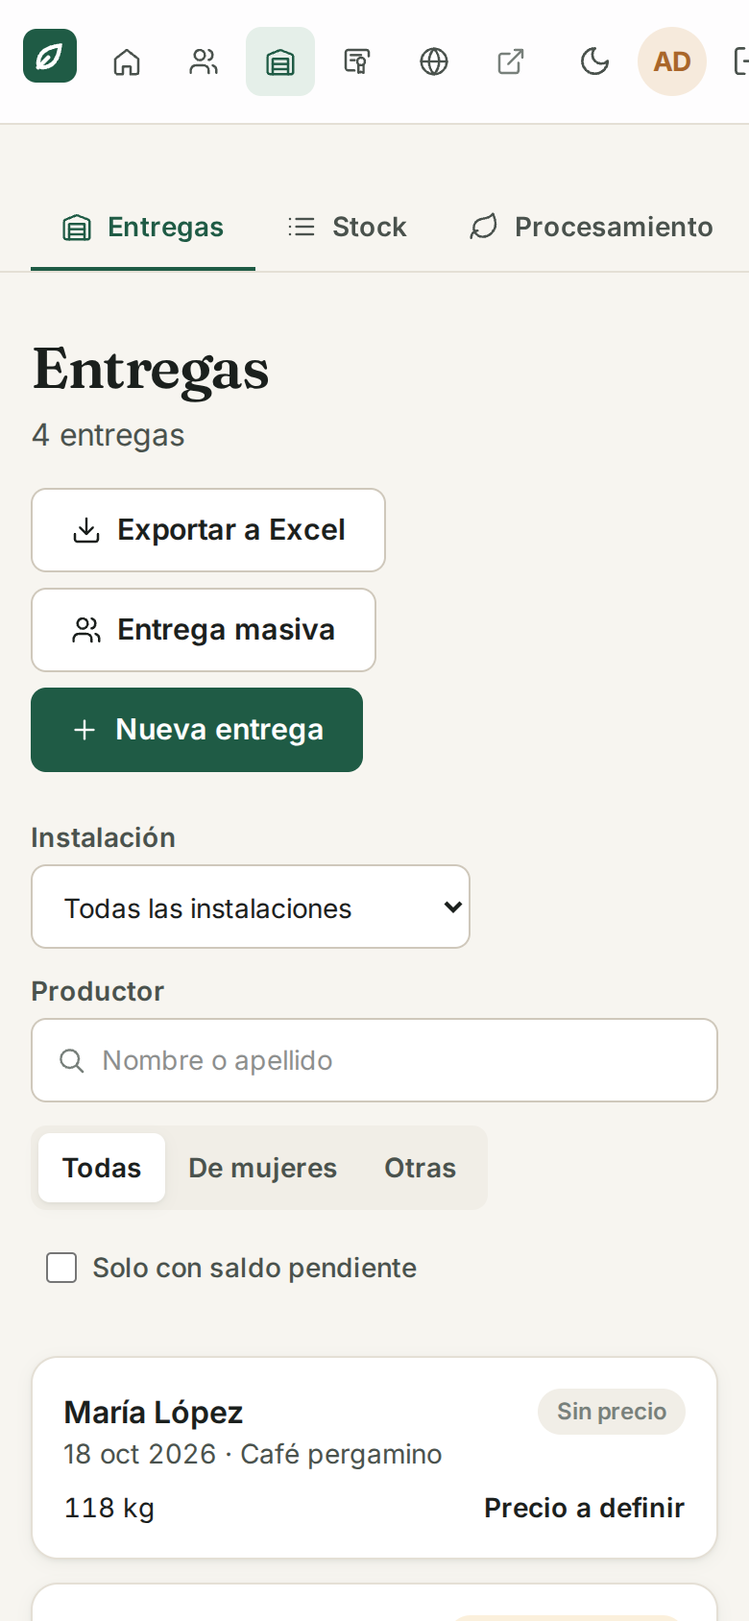
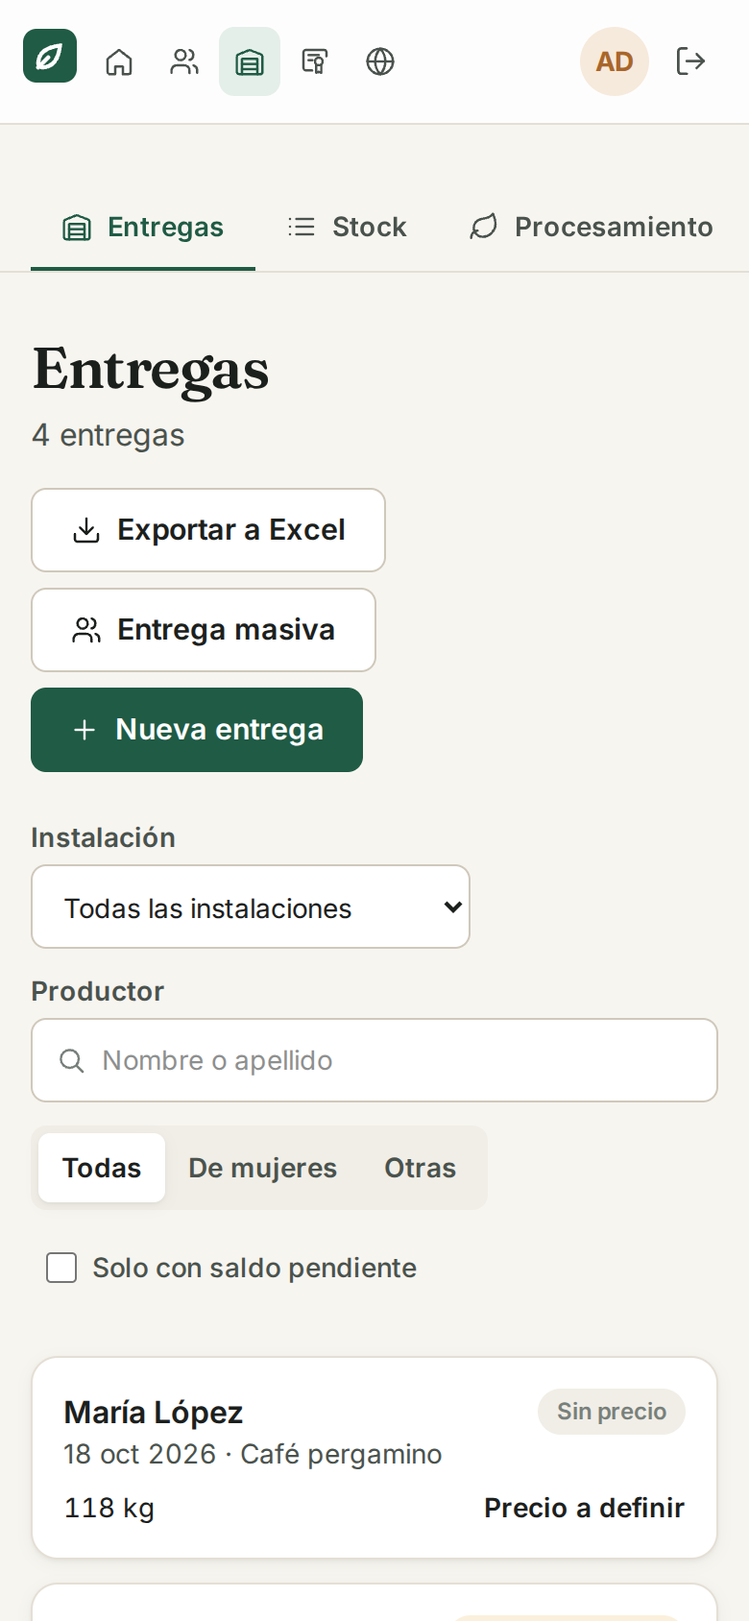
Barra sin recortes en ningún ancho, prueba sin carrera y README al día
- v2.0.3 dejaba el menú recortado en escritorio: la navegación ya no se encoge desde sm y solo se
  desliza en el celular. El selector de empresa queda como ícono por debajo de lg, el idioma desde md
  (también está en el perfil) y los textos del menú desde lg.
- Nueva prueba: la barra en diez anchos, con y sin administración, sin desbordes ni menú recortado.
- productos-partes: un solo manejador para la confirmación y el aviso (fallaba a veces en la CI).
- Actions en sus versiones actuales (sin el aviso de Node 20).
- README es/en: la v2 reemplaza todas las pantallas, convivencia opcional, URL_ANTERIOR, CI por
  etiquetas, PR #129, #132 y frontend #33 mergeados, cifras de pruebas y capturas nuevas.

diff --git a/src/paginas/portal/Marco.tsx b/src/paginas/portal/Marco.tsx
@@ -39,7 +39,7 @@ export function Marco() {
             <Logo compacto />
           </Link>
           {/* En un celular angosto la navegación se desliza en vez de ensanchar la página. */}
-          <nav className="flex min-w-0 items-center gap-0.5 overflow-x-auto [scrollbar-width:none] sm:gap-1" aria-label="Principal">
+          <nav className="flex items-center gap-0.5 max-sm:min-w-0 max-sm:overflow-x-auto max-sm:[scrollbar-width:none] sm:shrink-0 sm:gap-1" aria-label="Principal">
             {NAV.filter((n) => !n.admin || admin).map((n) => (
               <Link
                 key={n.to}
@@ -52,7 +52,7 @@ export function Marco() {
               >
                 <Icono nombre={n.icono} className="size-4" />
                 {/* Con la entrada de la administración no entran los textos de las seis: solo si sobra lugar. */}
-                <span className={'hidden whitespace-nowrap ' + (admin ? '2xl:inline' : 'md:inline')}>{t(n.clave)}</span>
+                <span className={'hidden whitespace-nowrap ' + (admin ? '2xl:inline' : 'lg:inline')}>{t(n.clave)}</span>
               </Link>
             ))}
             {hayAnterior && (
@@ -65,10 +65,10 @@ export function Marco() {
               </>
             )}
           </nav>
-          <div className="ml-auto flex shrink-0 items-center gap-1">
+          <div className="ml-auto flex min-w-0 items-center gap-1">
             <SelectorEmpresa />
             {/* Envuelto: el propio selector es inline-flex y le ganaría a un "hidden". */}
-            <div className="hidden sm:block">
+            <div className="hidden md:block">
               <SelectorIdioma />
             </div>
             {/* En el celular el tema se cambia desde el perfil. */}

diff --git a/src/componentes/SelectorEmpresa.tsx b/src/componentes/SelectorEmpresa.tsx
@@ -13,9 +13,9 @@ export function SelectorEmpresa() {
   if (empresas.length < 2) {
     return <span className="mr-2 hidden max-w-44 truncate text-sm font-semibold text-tinta-2 lg:inline" title={actual.nombre}>{actual.nombre}</span>;
   }
-  // En el celular queda solo el ícono: el selector, invisible, lo cubre y abre la lista del sistema.
+  // En pantallas angostas queda solo el ícono: el selector, invisible, lo cubre y abre la lista del sistema.
   return (
-    <label className="relative inline-flex max-w-56 items-center gap-1.5 rounded-lg px-2 text-sm text-tinta-2 hover:bg-superficie-2 max-sm:size-9 max-sm:justify-center max-sm:px-0 sm:mr-1">
+    <label className="relative inline-flex max-w-56 items-center gap-1.5 rounded-lg px-2 text-sm text-tinta-2 hover:bg-superficie-2 max-lg:size-9 max-lg:justify-center max-lg:px-0 lg:mr-1">
       <Icono nombre="edificio" className="size-4 shrink-0" />
       <span className="sr-only">{t('portal.empresa')}</span>
       <select
@@ -25,7 +25,7 @@ export function SelectorEmpresa() {
           // Lo cargado de la empresa anterior no sirve para la nueva.
           void qc.invalidateQueries({ queryKey: ['productores'] });
         }}
-        className="h-9 min-w-0 cursor-pointer truncate bg-transparent font-semibold text-tinta outline-none max-sm:absolute max-sm:inset-0 max-sm:w-full max-sm:opacity-0"
+        className="h-9 min-w-0 cursor-pointer truncate bg-transparent font-semibold text-tinta outline-none max-lg:absolute max-lg:inset-0 max-lg:w-full max-lg:opacity-0"
       >
         {empresas.map((e) => <option key={e.id} value={e.id}>{e.nombre}</option>)}
       </select>

diff --git a/e2e/ancho.spec.ts b/e2e/ancho.spec.ts
@@ -52,3 +52,25 @@ test('las pantallas de cuenta tampoco', async ({ page }) => {
     expect(medidas.documento, `ancho del documento en /${ruta}`).toBeLessThanOrEqual(medidas.ventana);
   }
 });
+
+// La barra de arriba cambia según el ancho (textos, idioma, selector de empresa): ningún ancho intermedio
+// puede ensancharla. Pasó entre 640 y 900 px, donde no mira ni el escritorio ni el celular.
+for (const rol of ['', 'SYSTEM_ADMIN']) {
+  test(`la barra entra en todos los anchos${rol ? ' (administración)' : ''}`, async ({ page }) => {
+    if (rol) await page.addInitScript((r) => sessionStorage.setItem('simulado.rol', r), rol);
+    await page.goto('ingreso');
+    await page.getByLabel('Correo electrónico').fill('demo@inatrace.local');
+    await page.getByLabel('Contraseña').fill('demo1234');
+    await page.getByRole('button', { name: 'Ingresar' }).click();
+    await expect(page.getByRole('heading', { name: /^Hola/ })).toBeVisible();
+    for (const ancho of [1440, 1280, 1024, 900, 768, 700, 640, 600, 390, 360]) {
+      await page.setViewportSize({ width: ancho, height: 800 });
+      await expect.poll(() => page.evaluate(() => document.documentElement.scrollWidth), { message: `ancho del documento a ${ancho} px` }).toBeLessThanOrEqual(ancho);
+      // Solo en el celular el menú puede deslizarse; desde 640 px tiene que verse entero.
+      if (ancho >= 640) {
+        const menu = await page.getByRole('navigation', { name: 'Principal' }).evaluate((n) => n.scrollWidth - n.clientWidth);
+        expect(menu, `menú recortado a ${ancho} px`).toBeLessThanOrEqual(0);
+      }
+    }
+  });
+}

diff --git a/e2e/productos-partes.spec.ts b/e2e/productos-partes.spec.ts
@@ -173,11 +173,12 @@ test.describe('partes del producto (modo simulado)', () => {
 
   test('borrar un producto con productos finales explica por qué no se puede', async ({ page }) => {
     await ingresar(page, 'productos/1');
-    let mensaje = '';
-    page.once('dialog', (d) => void d.accept());
+    // Un solo manejador para la confirmación y el aviso: registrar el segundo después del clic llegaba
+    // a veces tarde y el aviso se cerraba solo.
+    const mensajes: string[] = [];
+    page.on('dialog', (d) => { mensajes.push(d.message()); void d.accept(); });
     await page.getByRole('button', { name: 'Borrar producto' }).click();
-    page.once('dialog', (d) => { mensaje = d.message(); void d.accept(); });
-    await expect.poll(() => mensaje).toContain('tiene productos finales');
+    await expect.poll(() => mensajes.join('\n')).toContain('tiene productos finales');
     await expect(page.getByRole('heading', { level: 1, name: 'Café Flor de la Sierra' })).toBeVisible();
   });
 });

diff --git a/README.md b/README.md
@@ -25,7 +25,7 @@
 ![Docker](https://img.shields.io/badge/Docker-nginx%20sin%20privilegios-2496ED?logo=docker&logoColor=white)
 ![pnpm](https://img.shields.io/badge/pnpm-9-F69220?logo=pnpm&logoColor=white)
 
-<img src="docs/capturas/inicio.png" alt="Inicio de INATrace v2: saludo y estado de cada módulo" width="860">
+<img src="docs/capturas/inicio.png" alt="Inicio de INATrace v2: saludo y módulos" width="860">
 
 </div>
 
@@ -56,15 +56,17 @@
 
 ## Qué es
 
-INATrace v2 reemplaza, módulo por módulo, la interfaz web de INATrace (Angular 10) por una nueva en
-React. Habla con el **mismo backend Java/Spring sin modificarlo** y **convive** con la interfaz
-actual: un proxy reparte las rutas en un mismo dominio, así que la sesión es una sola y se puede
-pasar de una versión a otra sin volver a ingresar. Lo que todavía no está en la v2 se abre en la
-versión actual.
+INATrace v2 es una interfaz web nueva para INATrace, en React, que reemplaza a la actual (Angular 10)
+**en todas sus pantallas**. Habla con el **mismo backend Java/Spring sin modificarlo**, así que se
+instala delante de una instancia existente sin migrar datos.
+
+El cambio puede ser gradual: un proxy reparte las rutas en un mismo dominio, la sesión es una sola y
+las dos interfaces **conviven** el tiempo que haga falta. Cuando se decide, el proxy retira la
+interfaz actual y cada enlace viejo (incluidos los QR ya impresos) lleva a su equivalente en la v2.
 
 Es una iniciativa propia de Rolando Quirós, separada de los contratos con la GIZ. El plan completo
 está en [docs/PLAN.md](docs/PLAN.md) y el estado detallado, fase por fase, en
-[docs/AVANCE.md](docs/AVANCE.md).
+[docs/AVANCE.md](docs/AVANCE.md). Versión actual: **2.0.4**.
 
 ## Vistas previas
 
@@ -115,7 +117,7 @@ está en [docs/PLAN.md](docs/PLAN.md) y el estado detallado, fase por fase, en
 | **Mapas** | Mapbox (requiere token) | MapLibre, con capas del catálogo, dibujo de parcelas y superficie calculada, sin token |
 | **Errores** | Mensajes genéricos en varios casos | Se explica la causa en el idioma de la interfaz (por ejemplo, por qué algo no se puede borrar) |
 | **Vitrina pública (QR)** | Parte de la aplicación completa | Se carga sola, sin formularios ni mapas de edición, con las mismas URL y el mismo registro de visitas |
-| **Permisos** | Algunas reglas solo se aplican en la pantalla (H29) | Respeta cada rol en la interfaz, y la corrección del backend se propuso al original ([#129](https://github.com/agstack/inatrace-backend/pull/129)) |
+| **Permisos** | Algunas reglas solo se aplican en la pantalla (H29) | Respeta cada rol en la interfaz, y la corrección del backend ya está en el original ([#129](https://github.com/agstack/inatrace-backend/pull/129)) |
 
 ## Estado por módulo
 
@@ -232,13 +234,14 @@ flowchart LR
   U["Navegador<br/>(escritorio o celular)"] --> P["Proxy nginx<br/>(un solo dominio)"]
   P -- "/v2/" --> V2["INATrace v2<br/>React + Vite<br/>(nginx sin privilegios)"]
   P -- "/api/" --> B["Backend INATrace<br/>Java · Spring Boot · MySQL<br/>(sin cambios)"]
-  P -- "resto" --> A["Interfaz actual<br/>Angular"]
+  P -. "resto, mientras conviven" .-> A["Interfaz actual<br/>Angular (opcional)"]
   V2 -. "cliente generado<br/>desde OpenAPI" .-> B
   A --> B
 ```
 
 - **Convivencia:** el proxy (`deploy/convivencia/`) manda `/v2/` a esta interfaz, `/api/` al
-  backend y el resto a la interfaz actual. La cookie de sesión es la misma para las dos.
+  backend y el resto a la interfaz actual. La cookie de sesión es la misma para las dos. Mientras
+  conviven, `URL_ANTERIOR` muestra enlaces a la interfaz actual; sin ella, la v2 no los muestra.
 - **QR ya impresos:** con `QR_A_V2=si` el proxy redirige `/{idioma}/q-cd/…` a la vitrina de la v2;
   con `no` siguen en la interfaz actual. Activar o volver atrás es cambiar la variable y reiniciar el proxy.
 - **Retiro de Angular:** con `ANGULAR=no` el proxy deja de enviar tráfico a la interfaz actual y cada ruta
@@ -288,8 +291,8 @@ inatrace-v2/
 ├── deploy/
 │   ├── nginx/          # configuración del contenedor (CSP, config en tiempo de ejecución)
 │   └── convivencia/    # proxy + compose para correr junto a la interfaz actual
-├── scripts/            # actualizar el cliente, importar traducciones, sembrar demos, capturas
-├── docs/               # PLAN.md, AVANCE.md, créditos y capturas
+├── scripts/            # actualizar el cliente, importar traducciones, sembrar demos, capturas, comparación
+├── docs/               # PLAN.md, AVANCE.md, antes y después, créditos y capturas
 └── public/config.js    # configuración leída en tiempo de ejecución (no en el build)
 ```
 
@@ -349,12 +352,12 @@ instalación):
 
 ## Pruebas
 
-Tres niveles, del más rápido al más cercano a producción (cifras al 06.11.2026):
+Tres niveles, del más rápido al más cercano a producción (cifras al 07.11.2026):
 
 | Nivel | Herramienta | Cantidad | Qué cubre |
 |---|---|---|---|
 | Unitarias | Vitest | 163 | Lógica pura: armado de fichas sobre el original, validaciones, permisos por rol, agrupaciones |
-| De punta a punta, simuladas | Playwright + MSW | 192 | Cada flujo en **escritorio y celular**, más una prueba que recorre todas las pantallas buscando desbordes |
+| De punta a punta, simuladas | Playwright + MSW | 196 | Cada flujo en **escritorio y celular**, más pruebas que recorren todas las pantallas y la barra en diez anchos buscando desbordes |
 | Contra un backend real | Playwright | 42 | Los mismos flujos contra una copia aislada de INATrace, verificando lo guardado por la API |
 
 ```bash
@@ -365,17 +368,18 @@ INATRACE_URL=http://localhost:5181 INATRACE_USUARIO=… INATRACE_CLAVE=… \
   pnpm exec playwright test -c playwright.real.config.ts
 ```
 
-La CI (GitHub Actions) corre tipos, pruebas unitarias y de punta a punta en cada push a `main` y a
-las ramas `fase-*`, y en cada pull request. Desde `main` publica además la imagen.
+La CI (GitHub Actions) corre tipos, pruebas unitarias y de punta a punta en cada push a `main`, en
+cada etiqueta de versión y en cada pull request. Desde `main` y las etiquetas publica además la imagen.
 
 ## Despliegue
 
 - **Imagen:** `ghcr.io/reiterstahl/inatrace-v2`, publicada por la CI si pasan todas las pruebas: una
-  etiqueta `vX.Y.Z` publica la versión `X.Y.Z` (la primera es `2.0.0-rc.1`), `main` publica `latest`, y
-  las dos, el SHA del commit. Es nginx sin privilegios en el puerto **8080**,
-  con cabeceras de seguridad y CSP estricta.
-- **Convivencia:** `deploy/convivencia/` trae el proxy y un `docker-compose.yml` para poner la v2
-  delante de una instalación existente sin tocarla.
+  etiqueta `vX.Y.Z` publica la versión `X.Y.Z` (y `latest`, si es estable), `main` publica `latest`, y
+  las dos, el SHA del commit. Es nginx sin privilegios en el puerto **8080**, con cabeceras de
+  seguridad y CSP estricta.
+- **Convivencia y retiro:** `deploy/convivencia/` trae el proxy y un `docker-compose.yml` para poner la
+  v2 delante de una instalación existente sin tocarla. `QR_A_V2` y `ANGULAR` deciden, cada una con un
+  reinicio del proxy, si los QR impresos abren la v2 y si la interfaz actual sigue en uso.
 - **Datos de demostración** (solo para instancias de prueba):
   - `scripts/sembrar-demo.mjs`: una acción «generar QR», un lote con QR y una etiqueta publicada.
   - `scripts/sembrar-medios.mjs`: fotos con licencia libre y un video; los créditos están en
@@ -404,10 +408,10 @@ cada uno con prueba de regresión:
 | [#116](https://github.com/agstack/inatrace-backend/pull/116) | La copia del producto a la etiqueta perdía políticas laborales y lugares de origen | ✅ mergeado |
 | [#117](https://github.com/agstack/inatrace-backend/pull/117) | Un producto con base de conocimiento no se podía borrar | ✅ mergeado |
 | [#118](https://github.com/agstack/inatrace-backend/pull/118) | La «gerencia» de la empresa nunca se guardaba | ✅ mergeado |
-| [#119](https://github.com/agstack/inatrace-backend/pull/119) + [frontend #33](https://github.com/agstack/inatrace-frontend/pull/33) | La lista pública de opiniones exponía datos de los consumidores | ✅ mergeado / aprobado |
+| [#119](https://github.com/agstack/inatrace-backend/pull/119) + [frontend #33](https://github.com/agstack/inatrace-frontend/pull/33) | La lista pública de opiniones exponía datos de los consumidores | ✅ mergeados |
 | [#122](https://github.com/agstack/inatrace-backend/pull/122), [#123](https://github.com/agstack/inatrace-backend/pull/123) | Errores 500 al borrar acciones de procesamiento o clientes en uso | ✅ mergeados |
-| [#129](https://github.com/agstack/inatrace-backend/pull/129) | La administración regional podía dar el rol de administración del sistema | 🕓 en revisión |
-| [#132](https://github.com/agstack/inatrace-backend/pull/132) | Error 500 al borrar una cadena de valor en uso | 🕓 en revisión |
+| [#129](https://github.com/agstack/inatrace-backend/pull/129) | La administración regional podía dar el rol de administración del sistema | ✅ mergeado |
+| [#132](https://github.com/agstack/inatrace-backend/pull/132) | Error 500 al borrar una cadena de valor en uso | ✅ mergeado |
 | [#137](https://github.com/agstack/inatrace-backend/pull/137) | Error 500 al borrar elementos de catálogo en uso | 🕓 en revisión |
 
 ## Decisiones técnicas
@@ -428,6 +432,9 @@ cada uno con prueba de regresión:
 - [docs/PLAN.md](docs/PLAN.md): qué es y qué no es, principios, arquitectura, inventario de la
   interfaz actual, fases y riesgos.
 - [docs/AVANCE.md](docs/AVANCE.md): qué se hizo en cada fase, con sus pruebas, hallazgos y pendientes.
+- [docs/ANTES-Y-DESPUES.md](docs/ANTES-Y-DESPUES.md): la interfaz actual y la v2, pantalla por pantalla y
+  con los mismos datos.
+- [deploy/convivencia/](deploy/convivencia/): el proxy, sus variables y las reglas de redirección.
 - [e2e-real/README.md](e2e-real/README.md): cómo correr las pruebas contra una instalación real.
 
 ## Licencia y créditos

diff --git a/README.en.md b/README.en.md
@@ -25,7 +25,7 @@
 ![Docker](https://img.shields.io/badge/Docker-unprivileged%20nginx-2496ED?logo=docker&logoColor=white)
 ![pnpm](https://img.shields.io/badge/pnpm-9-F69220?logo=pnpm&logoColor=white)
 
-<img src="docs/capturas/en/inicio.png" alt="INATrace v2 home: greeting and status of each module" width="860">
+<img src="docs/capturas/en/inicio.png" alt="INATrace v2 home: greeting and modules" width="860">
 
 </div>
 
@@ -56,15 +56,18 @@
 
 ## What it is
 
-INATrace v2 replaces the INATrace web interface (Angular 10) with a new one in React, one module at a
-time. It talks to the **same Java/Spring backend without modifying it** and **runs alongside** the
-current interface. A proxy splits the routes on a single domain, so both versions share one session
-and users can move between them without signing in again. Anything not yet in v2 opens in the
-current version.
+INATrace v2 is a new web interface for INATrace, built in React, that replaces the current one
+(Angular 10) **on every screen**. It talks to the **same Java/Spring backend without modifying it**, so
+it goes in front of an existing instance with no data migration.
+
+The switch can be gradual: a proxy splits the routes on a single domain, both interfaces share one
+session and they can **run side by side** for as long as needed. When the time comes, the proxy
+retires the current interface and every old link (including QR codes already printed) leads to its
+v2 equivalent.
 
 It is an independent initiative by Rolando Quirós, separate from the GIZ contracts. The full plan is
 in [docs/PLAN.md](docs/PLAN.md) and the detailed status of each phase is in
-[docs/AVANCE.md](docs/AVANCE.md) (both in Spanish).
+[docs/AVANCE.md](docs/AVANCE.md) (both in Spanish). Current version: **2.0.4**.
 
 ## Previews
 
@@ -116,7 +119,7 @@ in [docs/PLAN.md](docs/PLAN.md) and the detailed status of each phase is in
 | **Maps** | Mapbox (needs a token) | MapLibre, with catalog layers, plot drawing and computed area, no token |
 | **Errors** | Generic messages in several cases | The cause is explained in the interface language (for example, why something cannot be deleted) |
 | **Public product page (QR)** | Part of the full application | Loads on its own, without forms or editing maps, with the same URLs and the same visit tracking |
-| **Permissions** | Some rules are only enforced on screen (H29) | Each role is respected in the interface, and the backend fix was proposed upstream ([#129](https://github.com/agstack/inatrace-backend/pull/129)) |
+| **Permissions** | Some rules are only enforced on screen (H29) | Each role is respected in the interface, and the backend fix is now upstream ([#129](https://github.com/agstack/inatrace-backend/pull/129)) |
 
 ## Status by module
 
@@ -231,13 +234,14 @@ flowchart LR
   U["Browser<br/>(desktop or phone)"] --> P["nginx proxy<br/>(one domain)"]
   P -- "/v2/" --> V2["INATrace v2<br/>React + Vite<br/>(unprivileged nginx)"]
   P -- "/api/" --> B["INATrace backend<br/>Java · Spring Boot · MySQL<br/>(unchanged)"]
-  P -- "everything else" --> A["Current interface<br/>Angular"]
+  P -. "everything else, while both run" .-> A["Current interface<br/>Angular (optional)"]
   V2 -. "client generated<br/>from OpenAPI" .-> B
   A --> B
 ```
 
 - **Side by side:** the proxy (`deploy/convivencia/`) sends `/v2/` to this interface, `/api/` to the
-  backend and everything else to the current interface. Both share the same session cookie.
+  backend and everything else to the current interface. Both share the same session cookie. While
+  both run, `URL_ANTERIOR` shows links to the current interface; without it, v2 shows none.
 - **QR codes already printed:** with `QR_A_V2=si` the proxy redirects `/{language}/q-cd/…` to the v2 public
   page; with `no` they stay on the current interface. Switching is changing the variable and restarting the proxy.
 - **Retiring Angular:** with `ANGULAR=no` the proxy stops sending traffic to the current interface and every
@@ -289,8 +293,8 @@ inatrace-v2/
 ├── deploy/
 │   ├── nginx/          # container configuration (CSP, runtime config)
 │   └── convivencia/    # proxy + compose to run next to the current interface
-├── scripts/            # update the API client, import translations, seed demos, screenshots
-├── docs/               # PLAN.md, AVANCE.md, credits and screenshots
+├── scripts/            # update the API client, import translations, seed demos, screenshots, comparison
+├── docs/               # PLAN.md, AVANCE.md, before and after, credits and screenshots
 └── public/config.js    # configuration read at runtime (not at build time)
 ```
 
@@ -349,12 +353,12 @@ In mock mode you can try the interface with another role by setting `simulado.ro
 
 ## Tests
 
-Three levels, from fastest to closest to production (figures as of 6 November 2026):
+Three levels, from fastest to closest to production (figures as of 7 November 2026):
 
 | Level | Tool | Count | What it covers |
 |---|---|---|---|
 | Unit | Vitest | 163 | Pure logic: building records on top of the original, validation, role permissions, grouping |
-| End-to-end, mocked | Playwright + MSW | 192 | Every flow on **desktop and phone**, plus a test that visits every screen looking for overflow |
+| End-to-end, mocked | Playwright + MSW | 196 | Every flow on **desktop and phone**, plus tests that visit every screen, and the top bar at ten widths, looking for overflow |
 | Against a real backend | Playwright | 42 | The same flows against an isolated copy of INATrace, checking what was saved through the API |
 
 ```bash
@@ -365,17 +369,18 @@ INATRACE_URL=http://localhost:5181 INATRACE_USUARIO=… INATRACE_CLAVE=… \
   pnpm exec playwright test -c playwright.real.config.ts
 ```
 
-CI (GitHub Actions) runs the type check, unit tests and end-to-end tests on every push to `main` and
-to the `fase-*` branches, and on every pull request. From `main` it also publishes the image.
+CI (GitHub Actions) runs the type check, unit tests and end-to-end tests on every push to `main`, on
+every version tag and on every pull request. From `main` and the tags it also publishes the image.
 
 ## Deployment
 
 - **Image:** `ghcr.io/reiterstahl/inatrace-v2`, published by CI when every test passes: a `vX.Y.Z` tag
-  publishes version `X.Y.Z` (the first is `2.0.0-rc.1`), `main` publishes `latest`, and both publish the
-  commit SHA. It is unprivileged nginx on port **8080**, with security headers
-  and a strict CSP.
-- **Side by side:** `deploy/convivencia/` provides the proxy and a `docker-compose.yml` to put v2 in
-  front of an existing installation without touching it.
+  publishes version `X.Y.Z` (and `latest`, if it is a stable release), `main` publishes `latest`, and
+  both publish the commit SHA. It is unprivileged nginx on port **8080**, with security headers and a
+  strict CSP.
+- **Side by side and retirement:** `deploy/convivencia/` provides the proxy and a `docker-compose.yml`
+  to put v2 in front of an existing installation without touching it. `QR_A_V2` and `ANGULAR` decide,
+  each with a proxy restart, whether printed QR codes open v2 and whether the current interface stays.
 - **Demo data** (test instances only):
   - `scripts/sembrar-demo.mjs`: a "generate QR" action, a batch with a QR code and a published label.
   - `scripts/sembrar-medios.mjs`: openly licensed photos and a video; credits are in
@@ -404,10 +409,10 @@ a regression test:
 | [#116](https://github.com/agstack/inatrace-backend/pull/116) | Copying a product to a label lost labor policies and origin locations | ✅ merged |
 | [#117](https://github.com/agstack/inatrace-backend/pull/117) | A product with a knowledge base could not be deleted | ✅ merged |
 | [#118](https://github.com/agstack/inatrace-backend/pull/118) | The company manager was never saved | ✅ merged |
-| [#119](https://github.com/agstack/inatrace-backend/pull/119) + [frontend #33](https://github.com/agstack/inatrace-frontend/pull/33) | The public feedback list exposed consumers' personal data | ✅ merged / approved |
+| [#119](https://github.com/agstack/inatrace-backend/pull/119) + [frontend #33](https://github.com/agstack/inatrace-frontend/pull/33) | The public feedback list exposed consumers' personal data | ✅ merged |
 | [#122](https://github.com/agstack/inatrace-backend/pull/122), [#123](https://github.com/agstack/inatrace-backend/pull/123) | 500 errors when deleting processing actions or customers in use | ✅ merged |
-| [#129](https://github.com/agstack/inatrace-backend/pull/129) | Regional administrators could grant the system administrator role | 🕓 in review |
-| [#132](https://github.com/agstack/inatrace-backend/pull/132) | 500 error when deleting a value chain in use | 🕓 in review |
+| [#129](https://github.com/agstack/inatrace-backend/pull/129) | Regional administrators could grant the system administrator role | ✅ merged |
+| [#132](https://github.com/agstack/inatrace-backend/pull/132) | 500 error when deleting a value chain in use | ✅ merged |
 | [#137](https://github.com/agstack/inatrace-backend/pull/137) | 500 error when deleting codebook entries in use | 🕓 in review |
 
 ## Technical decisions
@@ -423,12 +428,16 @@ a regression test:
 
 ## Documentation
 
-These documents are in Spanish.
+- [docs/BEFORE-AND-AFTER.md](docs/BEFORE-AND-AFTER.md): the current interface and v2, screen by screen,
+  with the same data.
+
+These documents are in Spanish:
 
 - [docs/PLAN.md](docs/PLAN.md): what v2 is and is not, principles, architecture, inventory of the
   current interface, phases and risks.
 - [docs/AVANCE.md](docs/AVANCE.md): what was done in each phase, with its tests, findings and open items.
 - [e2e-real/README.md](e2e-real/README.md): how to run the tests against a real installation.
+- [deploy/convivencia/](deploy/convivencia/): the proxy, its variables and the redirect rules (comments in Spanish).
 
 ## License and credits
 
